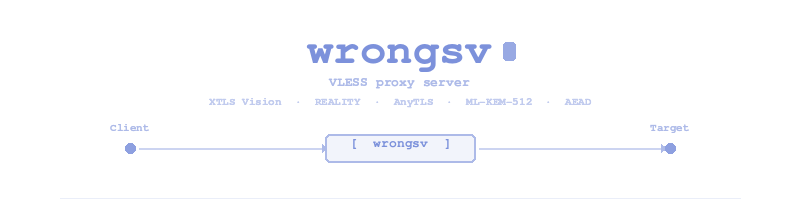
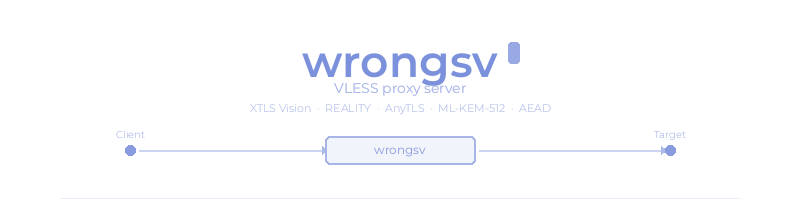
style: Montserrat SemiBold title, remove brackets from flow diagram

diff --git a/assets/generate_banner.py b/assets/generate_banner.py
@@ -1,4 +1,4 @@
-"""Generate wrongsv header banner — centered vertical layout, two-color minimal."""
+"""Generate wrongsv header banner — Montserrat title, centered vertical layout."""
 from PIL import Image, ImageDraw, ImageFont
 import os
 
@@ -12,47 +12,32 @@ img = Image.new("RGBA", (W, H), WHITE + (255,))
 draw = ImageDraw.Draw(img)
 
 # ── Fonts ─────────────────────────────────────────────────────────────────────
-font_paths = [
-    "/usr/share/fonts/google/roboto-mono/RobotoMono-Bold.ttf",
-    "/usr/share/fonts/urw-base35/NimbusMonoPS-Bold.otf",
-    "/usr/share/fonts/dejavu/DejaVuSansMono-Bold.ttf",
-    "/usr/share/fonts/gnu-free/FreeMonoBold.ttf",
-]
-title_font = None
-for fp in font_paths:
-    if os.path.exists(fp):
-        title_font = ImageFont.truetype(fp, 44)
-        break
-if title_font is None:
-    title_font = ImageFont.truetype("/usr/share/fonts/dejavu/DejaVuSans-Bold.ttf", 44)
+MONT_BOLD = "/usr/share/fonts/julietaula-montserrat-fonts/Montserrat-SemiBold.otf"
+MONT_REG = "/usr/share/fonts/julietaula-montserrat-fonts/Montserrat-Regular.otf"
+MONT_LIGHT = "/usr/share/fonts/julietaula-montserrat-fonts/Montserrat-Light.otf"
 
-mono_path = None
-for fp in font_paths:
-    if os.path.exists(fp):
-        mono_path = fp
-        break
-if mono_path is None:
-    mono_path = "/usr/share/fonts/dejavu/DejaVuSansMono.ttf"
-
-mono = ImageFont.truetype(mono_path, 13)
-mono_sm = ImageFont.truetype(mono_path, 11)
+title_font = ImageFont.truetype(MONT_BOLD, 44)
+sub_font = ImageFont.truetype(MONT_REG, 14)
+kw_font = ImageFont.truetype(MONT_LIGHT, 11)
+flow_font = ImageFont.truetype(MONT_REG, 12)
+flow_sm = ImageFont.truetype(MONT_LIGHT, 10)
 
 # ── Vertical layout, all centered ─────────────────────────────────────────────
-cx = W // 2  # horizontal center
+cx = W // 2
 
 # 1. Title
 title = "wrongsv"
-title_bbox = draw.textbbox((0, 0), title, font=title_font)
-title_w = title_bbox[2] - title_bbox[0]
-title_h = title_bbox[3] - title_bbox[1]
-title_y = 36
+tb = draw.textbbox((0, 0), title, font=title_font)
+title_w = tb[2] - tb[0]
+title_h = tb[3] - tb[1]
+title_y = 34
 draw.text((cx - title_w // 2, title_y), title, fill=ACCENT + (255,), font=title_font)
 
-# Cursor block after title
+# Cursor block
 cursor_x = cx + title_w // 2 + 10
-cursor_y = title_y + 6
-cursor_h = title_h - 10
-cursor_w = 12
+cursor_y = title_y + 8
+cursor_h = title_h - 12
+cursor_w = 11
 draw.rounded_rectangle(
     [(cursor_x, cursor_y), (cursor_x + cursor_w, cursor_y + cursor_h)],
     radius=3, fill=ACCENT + (200,)
@@ -60,20 +45,20 @@ draw.rounded_rectangle(
 
 # 2. Subtitle
 subtitle = "VLESS proxy server"
-sub_bbox = draw.textbbox((0, 0), subtitle, font=mono)
-sub_w = sub_bbox[2] - sub_bbox[0]
-sub_y = title_y + title_h + 14
-draw.text((cx - sub_w // 2, sub_y), subtitle, fill=ACCENT + (160,), font=mono)
+sb = draw.textbbox((0, 0), subtitle, font=sub_font)
+sub_w = sb[2] - sb[0]
+sub_y = title_y + title_h + 12
+draw.text((cx - sub_w // 2, sub_y), subtitle, fill=ACCENT + (170,), font=sub_font)
 
 # 3. Keywords
 keywords = "XTLS Vision  ·  REALITY  ·  AnyTLS  ·  ML-KEM-512  ·  AEAD"
-kw_bbox = draw.textbbox((0, 0), keywords, font=mono_sm)
-kw_w = kw_bbox[2] - kw_bbox[0]
-kw_y = sub_y + 20
-draw.text((cx - kw_w // 2, kw_y), keywords, fill=ACCENT + (120,), font=mono_sm)
+kb = draw.textbbox((0, 0), keywords, font=kw_font)
+kw_w = kb[2] - kb[0]
+kw_y = sub_y + 22
+draw.text((cx - kw_w // 2, kw_y), keywords, fill=ACCENT + (130,), font=kw_font)
 
 # 4. Flow diagram at bottom
-fl_y = 148
+fl_y = 150
 node_r = 5
 
 c_x = 130
@@ -81,9 +66,9 @@ s_x = 400
 t_x = 670
 
 # Client node
-draw.ellipse([c_x - node_r, fl_y - node_r, c_x + node_r, fl_y + node_r], fill=ACCENT + (220,))
-client_tw = draw.textbbox((0, 0), "Client", font=mono_sm)[2]
-draw.text((c_x - client_tw // 2, fl_y - 24), "Client", fill=ACCENT + (160,), font=mono_sm)
+draw.ellipse([c_x - node_r, fl_y - node_r, c_x + node_r, fl_y + node_r], fill=ACCENT + (230,))
+draw.text((c_x - draw.textbbox((0, 0), "Client", font=flow_sm)[2] // 2, fl_y - 22),
+          "Client", fill=ACCENT + (160,), font=flow_sm)
 
 # Arrow 1
 a1s = c_x + node_r + 4
@@ -95,11 +80,11 @@ draw.polygon([(a1e, fl_y - 4), (a1e + 6, fl_y), (a1e, fl_y + 4)], fill=ACCENT + 
 s_w, s_h = 150, 28
 draw.rounded_rectangle(
     [(s_x - s_w // 2, fl_y - s_h // 2), (s_x + s_w // 2, fl_y + s_h // 2)],
-    radius=5, fill=ACCENT + (25,), outline=ACCENT + (160,), width=2
+    radius=5, fill=ACCENT + (25,), outline=ACCENT + (170,), width=2
 )
-st = "[  wrongsv  ]"
-draw.text((s_x - draw.textbbox((0, 0), st, font=mono)[2] // 2, fl_y - 9),
-          st, fill=ACCENT + (255,), font=mono)
+st = "wrongsv"
+st_w = draw.textbbox((0, 0), st, font=flow_font)[2]
+draw.text((s_x - st_w // 2, fl_y - 8), st, fill=ACCENT + (240,), font=flow_font)
 
 # Arrow 2
 a2s = s_x + s_w // 2 + 4
@@ -108,9 +93,9 @@ draw.line([(a2s, fl_y), (a2e, fl_y)], fill=ACCENT + (100,), width=2)
 draw.polygon([(a2e, fl_y - 4), (a2e + 6, fl_y), (a2e, fl_y + 4)], fill=ACCENT + (160,))
 
 # Target node
-draw.ellipse([t_x - node_r, fl_y - node_r, t_x + node_r, fl_y + node_r], fill=ACCENT + (220,))
-target_tw = draw.textbbox((0, 0), "Target", font=mono_sm)[2]
-draw.text((t_x - target_tw // 2, fl_y - 24), "Target", fill=ACCENT + (160,), font=mono_sm)
+draw.ellipse([t_x - node_r, fl_y - node_r, t_x + node_r, fl_y + node_r], fill=ACCENT + (230,))
+draw.text((t_x - draw.textbbox((0, 0), "Target", font=flow_sm)[2] // 2, fl_y - 22),
+          "Target", fill=ACCENT + (160,), font=flow_sm)
 
 # ── Bottom divider ────────────────────────────────────────────────────────────
 draw.line([(60, H - 2), (W - 60, H - 2)], fill=ACCENT + (40,), width=1)
